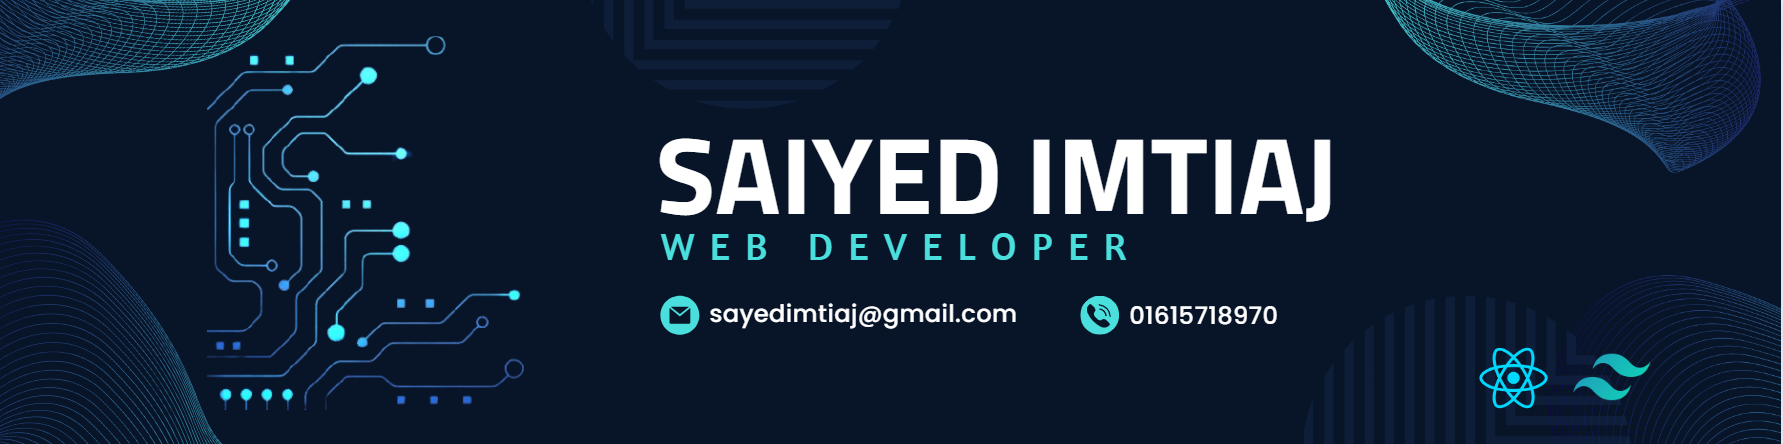
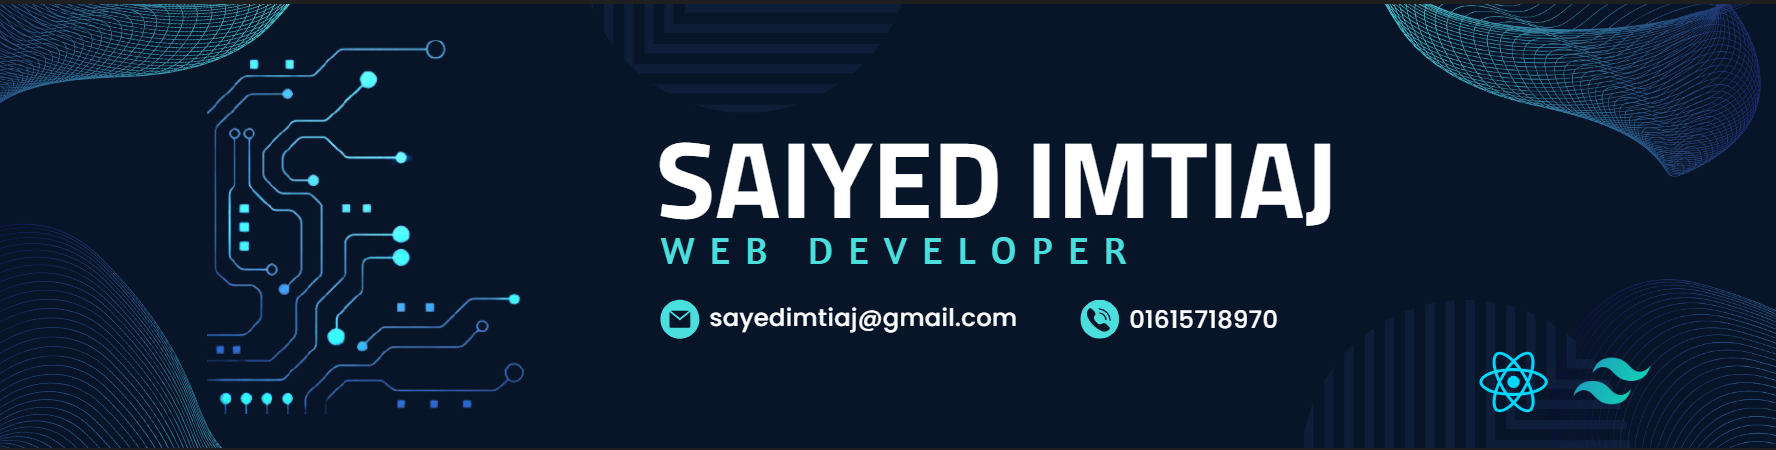
about me dne

diff --git a/README.md b/README.md
@@ -1,16 +1,14 @@
-### Hi there 👋
+<img src="https://raw.githubusercontent.com/saiyedimtiaj/saiyedimtiaj/main/assets/banner.PNG" width="100%" height="110">
 
-<!--
-**saiyedimtiaj/saiyedimtiaj** is a ✨ _special_ ✨ repository because its `README.md` (this file) appears on your GitHub profile.
+# <center>Hi there 👋 , I'm Imtiaj</center>
 
-Here are some ideas to get you started:
+## About Me
 
-- 🔭 I’m currently working on ...
-- 🌱 I’m currently learning ...
-- 👯 I’m looking to collaborate on ...
-- 🤔 I’m looking for help with ...
-- 💬 Ask me about ...
-- 📫 How to reach me: ...
-- 😄 Pronouns: ...
-- ⚡ Fun fact: ...
--->
+
+<!-- - 🔭 I’m currently working on ... -->
+🌱  I’m Now exploring - Next JS and Meterial ui.
+
+🤔 I’m trying - To Get a Job as a Junior Web Developer.
+
+<img src="https://miro.medium.com/v2/resize:fit:4800/format:webp/1*yw0TnheAGN-LPneDaTlaxw.gif" width="280" height="180">
+
